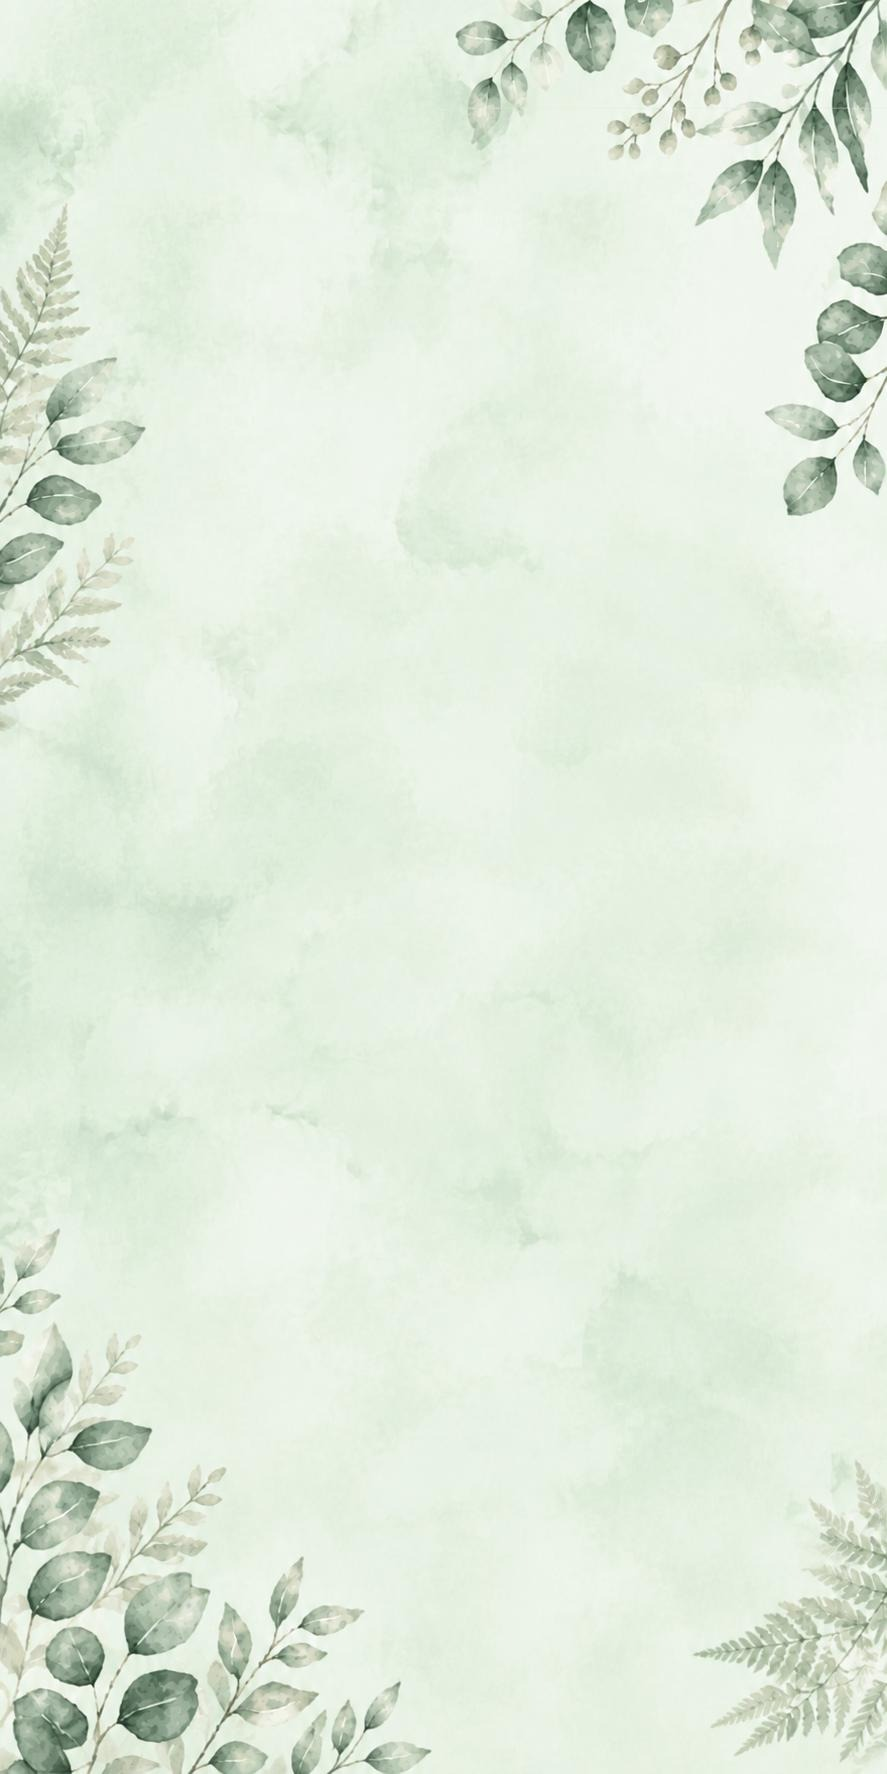
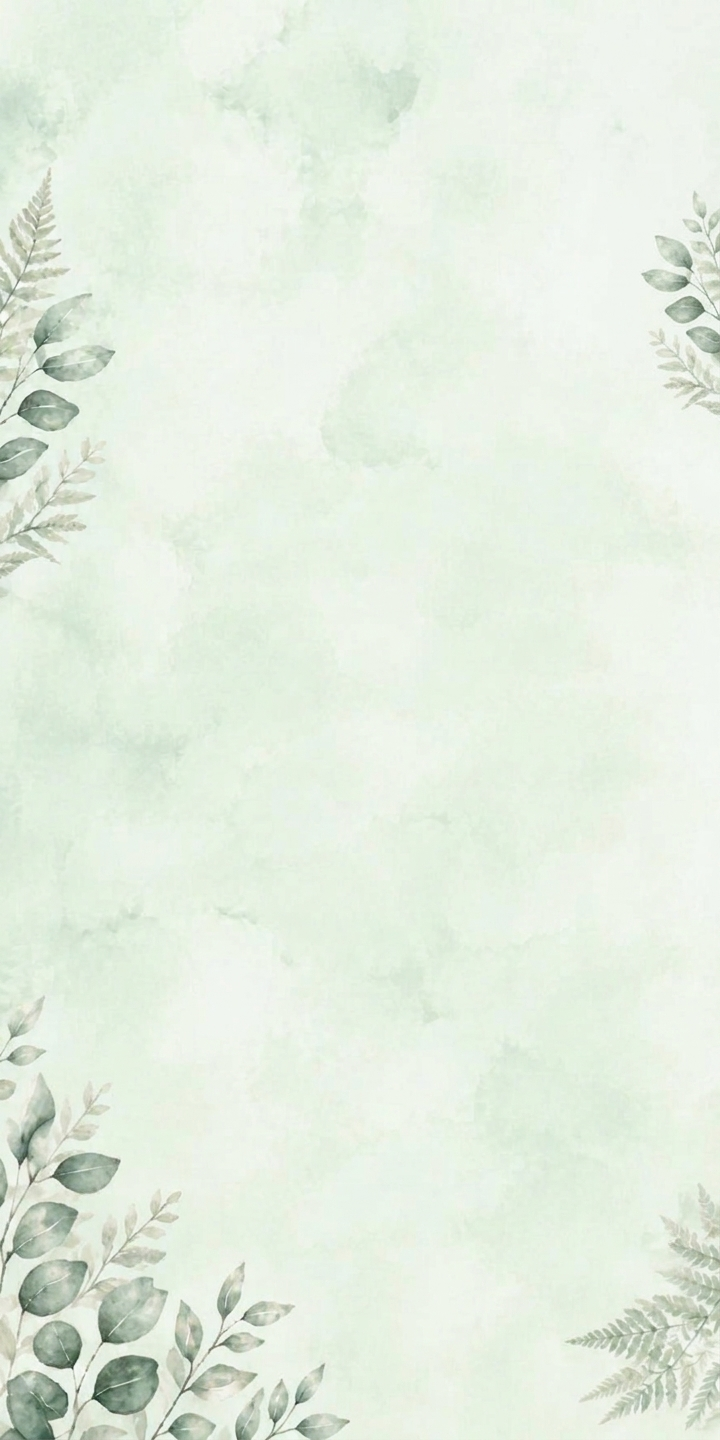
Extend booking hours to 8 pm in booking and reschedule UI; update mobile image

diff --git a/client.js b/client.js
@@ -292,7 +292,7 @@ function buildTimeSlots(startHour = 9, endHour = 18, intervalMinutes = 15, endMi
     return slots;
 }
 
-const rescheduleTimes = buildTimeSlots(9, 17, 15, 30);
+const rescheduleTimes = buildTimeSlots(9, 20, 15, 0);
 
 async function fetchFromApi(path, options = {}) {
     let lastNetworkError = null;
@@ -384,7 +384,7 @@ async function renderRescheduleSlots(date) {
 
     rescheduleSlotsBody.innerHTML = "";
     const requestedDuration = Number(activeReschedule.durationMinutes) || 30;
-    const closeOfDay = activeReschedule.closeOfDayMinutes ?? toMinutes("17:30");
+    const closeOfDay = activeReschedule.closeOfDayMinutes ?? toMinutes("20:00");
 
     try {
         const appointments = await fetchFromApi(`/api/appointments?date=${encodeURIComponent(date)}`)
@@ -492,7 +492,7 @@ function getAppointmentCloseOfDayMinutes(servicesRaw) {
     }
 
     const getLatestEnd = window.luneliaServiceCatalog?.getLatestEndMinutes;
-    return typeof getLatestEnd === "function" ? getLatestEnd(ids) : toMinutes("17:30");
+    return typeof getLatestEnd === "function" ? getLatestEnd(ids) : toMinutes("20:00");
 }
 
 function openReschedulePanel(appointment) {

diff --git a/booking.js b/booking.js
@@ -296,7 +296,7 @@ function getCloseOfDayMinutes() {
     const getLatestEnd = window.luneliaServiceCatalog?.getLatestEndMinutes;
     return typeof getLatestEnd === "function"
         ? getLatestEnd(cart.map((service) => service?.id))
-        : toMinutes("17:30");
+        : toMinutes("20:00");
 }
 
 function getTimeSlotColumnsPerRow() {
@@ -414,7 +414,7 @@ function loadCart() {
     }
 }
 
-const times = buildTimeSlots(9, 17, 15, 30);
+const times = buildTimeSlots(9, 20, 15, 0);
 
 // Generate time buttons
 function generateTimeSlots(date) {
